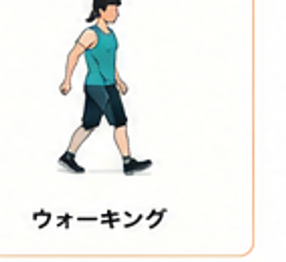
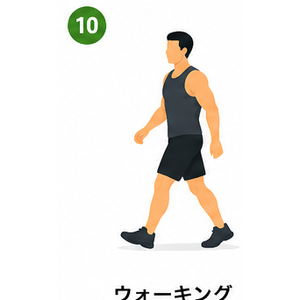
有酸素の説明画像を高解像度に差し替え(機種一致でマッピング)
- ユーザー提供の有酸素チャートから、機種が一致する7種を高解像度で差し替え
  (クロストレーナー←エリプティカル/エアロバイク←アップライトバイク/
  ローイングエルゴメーター←ローイングマシン 等)。屋外系のランニング・
  サイクリングは自作SVGに戻す(画像削除)。SW v19

Changed region(s): [[0.1119, 0.0, 0.7832, 0.8855], [0.0, 0.0, 0.8951, 1.0]]

diff --git a/docs/sw.js b/docs/sw.js
@@ -3,7 +3,7 @@
  * すべて使えるようにする(データは端末内 localStorage 保存のためそもそも通信不要)。
  * ファイルを追加/削除/リネームしたら必ず ASSETS 一覧と CACHE 版数を更新すること。
  */
-const CACHE = 'kintore-app-v18';
+const CACHE = 'kintore-app-v19';
 const ASSETS = [
   './',
   './index.html',
